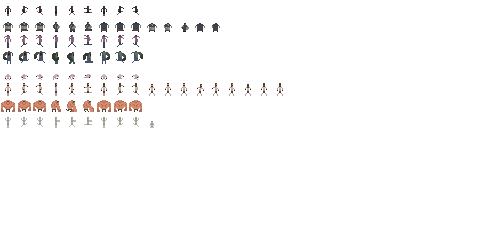
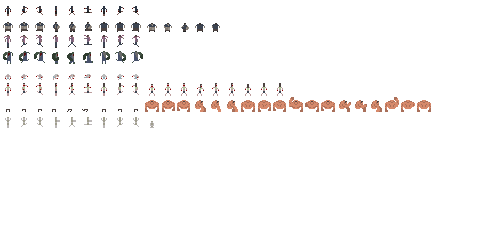
add tank punch animation

Changed region(s): [[0.0, 0.4083, 0.9062, 0.4667]]

diff --git a/h4d2/Entities/Mobs/Zombies/Specials/Tank.cs b/h4d2/Entities/Mobs/Zombies/Specials/Tank.cs
@@ -1,13 +1,191 @@
-using H4D2.Infrastructure;
+using H4D2.Entities.Mobs.Survivors;
+using H4D2.Infrastructure;
+using H4D2.Infrastructure.H4D2;
 using H4D2.Levels;
 
 namespace H4D2.Entities.Mobs.Zombies.Specials;
 
 public class Tank : Special
 {
+    private const double _attackRange = 15.0;
+    private const double _attackDelay = 2.0;
+
+    private int _attackFrame;
+    private double _aimDirectionRadians;
+    private readonly CountdownTimer _attackDelayTimer;
+    
     public Tank(Level level, Position position) 
         : base(level, position, SpecialConfigs.Tank)
     {
+        _attackFrame = -1;
+        _aimDirectionRadians = 0.0;
+        _attackDelayTimer = new CountdownTimer(_attackDelay);
+        _attackDelayTimer.Update(_attackDelay);
+    }
+    
+    protected override void _UpdateAttackState(double elapsedTime)
+    {
+        _attackDelayTimer.Update(elapsedTime);
+        if (_target == null || _target.Removed)
+        {
+            _isAttacking = false;
+            return;
+        }
+
+        if (_target is not Survivor survivor)
+        {
+            _isAttacking = false;
+            return;
+        }
         
+        ReadonlyPosition targetPosition = _target.CenterMass;
+        ReadonlyPosition zombiePosition = CenterMass;
+        double distance = ReadonlyPosition.Distance(targetPosition, zombiePosition);
+        
+        _isAttacking = distance <= _attackRange;
+        if (!_isAttacking) 
+            return;
+        
+        if (_attackDelayTimer.IsFinished)
+        {
+            _attackFrame = -1;
+            survivor.HitBy(this);
+            _attackDelayTimer.Reset();
+        }
+                
+        _aimDirectionRadians = Math.Atan2(targetPosition.Y - zombiePosition.Y, targetPosition.X - zombiePosition.X);
+        _aimDirectionRadians = MathHelpers.NormalizeRadians(_aimDirectionRadians);
+    }
+
+    protected override void _UpdateSprite(double elapsedTime)
+    {
+        _frameUpdateTimer.Update(elapsedTime);
+        if (_isAttacking)
+            _UpdateAttackingSprite();
+        else
+            _UpdateRunningSprite();
+    }
+
+    private void _UpdateAttackingSprite()
+    {
+        int direction = 0;
+        double degrees = MathHelpers.RadiansToDegrees(_aimDirectionRadians);
+        switch (degrees)
+        {
+            case >= 315:
+            case < 45:
+                direction = 1;
+                _xFlip = false;
+                break;
+            case < 135:
+                direction = 2;
+                _xFlip = false;
+                break;
+            case < 225:
+                direction = 1;
+                _xFlip = true;
+                break;
+            default:
+                direction = 0;
+                _xFlip = false;
+                break;
+        }
+        
+        while (_frameUpdateTimer.IsFinished)
+        {
+            _walkStep = (_walkStep + 1) % 4;
+            if(_attackFrame != 2)
+                _attackFrame = (_attackFrame + 1) % 3;
+            if (_velocity.X == 0 && _velocity.Y == 0) _walkStep = 0;
+            int nextLowerFrame = 0;
+            if (direction == 1)
+            {
+                nextLowerFrame = _walkStep switch
+                {
+                    0 => 3,
+                    1 or 3 => 4,
+                    2 => 5,
+                    _ => nextLowerFrame
+                };
+            }
+            else
+            {
+                nextLowerFrame = _walkStep switch
+                {
+                    0 or 2 => 0,
+                    1 => 1,
+                    3 => 2,
+                    _ => nextLowerFrame
+                };
+            }
+            _lowerFrame = nextLowerFrame;
+            _upperFrame = _attackingBitmapOffset + (direction * 3) + _attackFrame;
+            _frameUpdateTimer.AddDuration();
+        }
+    }
+
+    private void _UpdateRunningSprite()
+    {
+        int direction = 0;
+        int degrees = MathHelpers.RadiansToDegrees(_directionRadians);
+        switch (degrees)
+        {
+            case >= 315:
+            case < 45:
+                direction = 1;
+                _xFlip = false;
+                break;
+            case < 135:
+                direction = 2;
+                _xFlip = false;
+                break;
+            case < 225:
+                direction = 1;
+                _xFlip = true;
+                break;
+            default:
+                direction = 0;
+                _xFlip = false;
+                break;
+        }
+        
+        while (_frameUpdateTimer.IsFinished)
+        {
+            _walkStep = (_walkStep + 1) % 4;
+            if (_velocity.X == 0 && _velocity.Y == 0) _walkStep = 0;
+            int nextFrame = 0;
+            if (direction == 1)
+            {
+                nextFrame = _walkStep switch
+                {
+                    0 => 3,
+                    1 or 3 => 4,
+                    2 => 5,
+                    _ => nextFrame
+                };
+            }
+            else
+            {
+                nextFrame = _walkStep switch
+                {
+                    0 or 2 => 0 + (3 * direction),
+                    1 => 1 + (3 * direction),
+                    3 => 2 + (3 * direction),
+                    _ => nextFrame
+                };
+            }
+
+            _lowerFrame = nextFrame;
+            _upperFrame = nextFrame + _upperBitmapOffset;
+            _frameUpdateTimer.AddDuration();
+        }
+    }
+
+    protected override void Render(Bitmap screen, int xCorrected, int yCorrected)
+    {
+        Bitmap lowerBitmap = H4D2Art.Specials[_type][_lowerFrame];
+        Bitmap upperBitmap = H4D2Art.Specials[_type][_upperFrame];
+        screen.Draw(lowerBitmap, xCorrected, yCorrected, _xFlip);
+        screen.Draw(upperBitmap, xCorrected, yCorrected, _xFlip);
     }
 }

diff --git a/h4d2/Infrastructure/H4D2/H4D2Art.cs b/h4d2/Infrastructure/H4D2/H4D2Art.cs
@@ -31,7 +31,7 @@ public static class H4D2Art
     private static Bitmap[][] _LoadUncommons() => 
         Art.LoadBitmaps($"{_resourcePrefix}uncommon.png", SpriteSize, 5, 23);
     private static Bitmap[][] _LoadSpecials() => 
-        Art.LoadBitmaps($"{_resourcePrefix}special.png", SpriteSize, 8, 19);
+        Art.LoadBitmaps($"{_resourcePrefix}special.png", SpriteSize, 8, 27);
     private static Bitmap[][] _LoadPickups() => 
         Art.LoadBitmaps($"{_resourcePrefix}pickup.png", PickupSize, 2, 3);
     private static Bitmap[][] _LoadProjectiles() => 

diff --git a/h4d2/Levels/Level.cs b/h4d2/Levels/Level.cs
@@ -45,8 +45,7 @@ public class Level
         CollisionManager = collisionManager;
         
         _entities.Add(new Nick(this, new Position(60, 60)));
-        _entities.Add(new Boomer(this, new Position(50, 50)));
-        _entities.Add(new Spitter(this, new Position(40, 40)));
+        _entities.Add(new Tank(this, new Position(50, 50)));
     }
     
     public Entity? GetFirstCollidingEntity(Entity e1, ReadonlyPosition position)

diff --git a/h4d2/Entities/Mobs/Zombies/Specials/Special.cs b/h4d2/Entities/Mobs/Zombies/Specials/Special.cs
@@ -8,7 +8,7 @@ namespace H4D2.Entities.Mobs.Zombies.Specials;
 public abstract class Special : Zombie
 {
     protected int _frame;
-    private readonly int _type;
+    protected readonly int _type;
     
     protected Special(Level level, Position position, SpecialConfig config) 
         : base(level, position, config)
